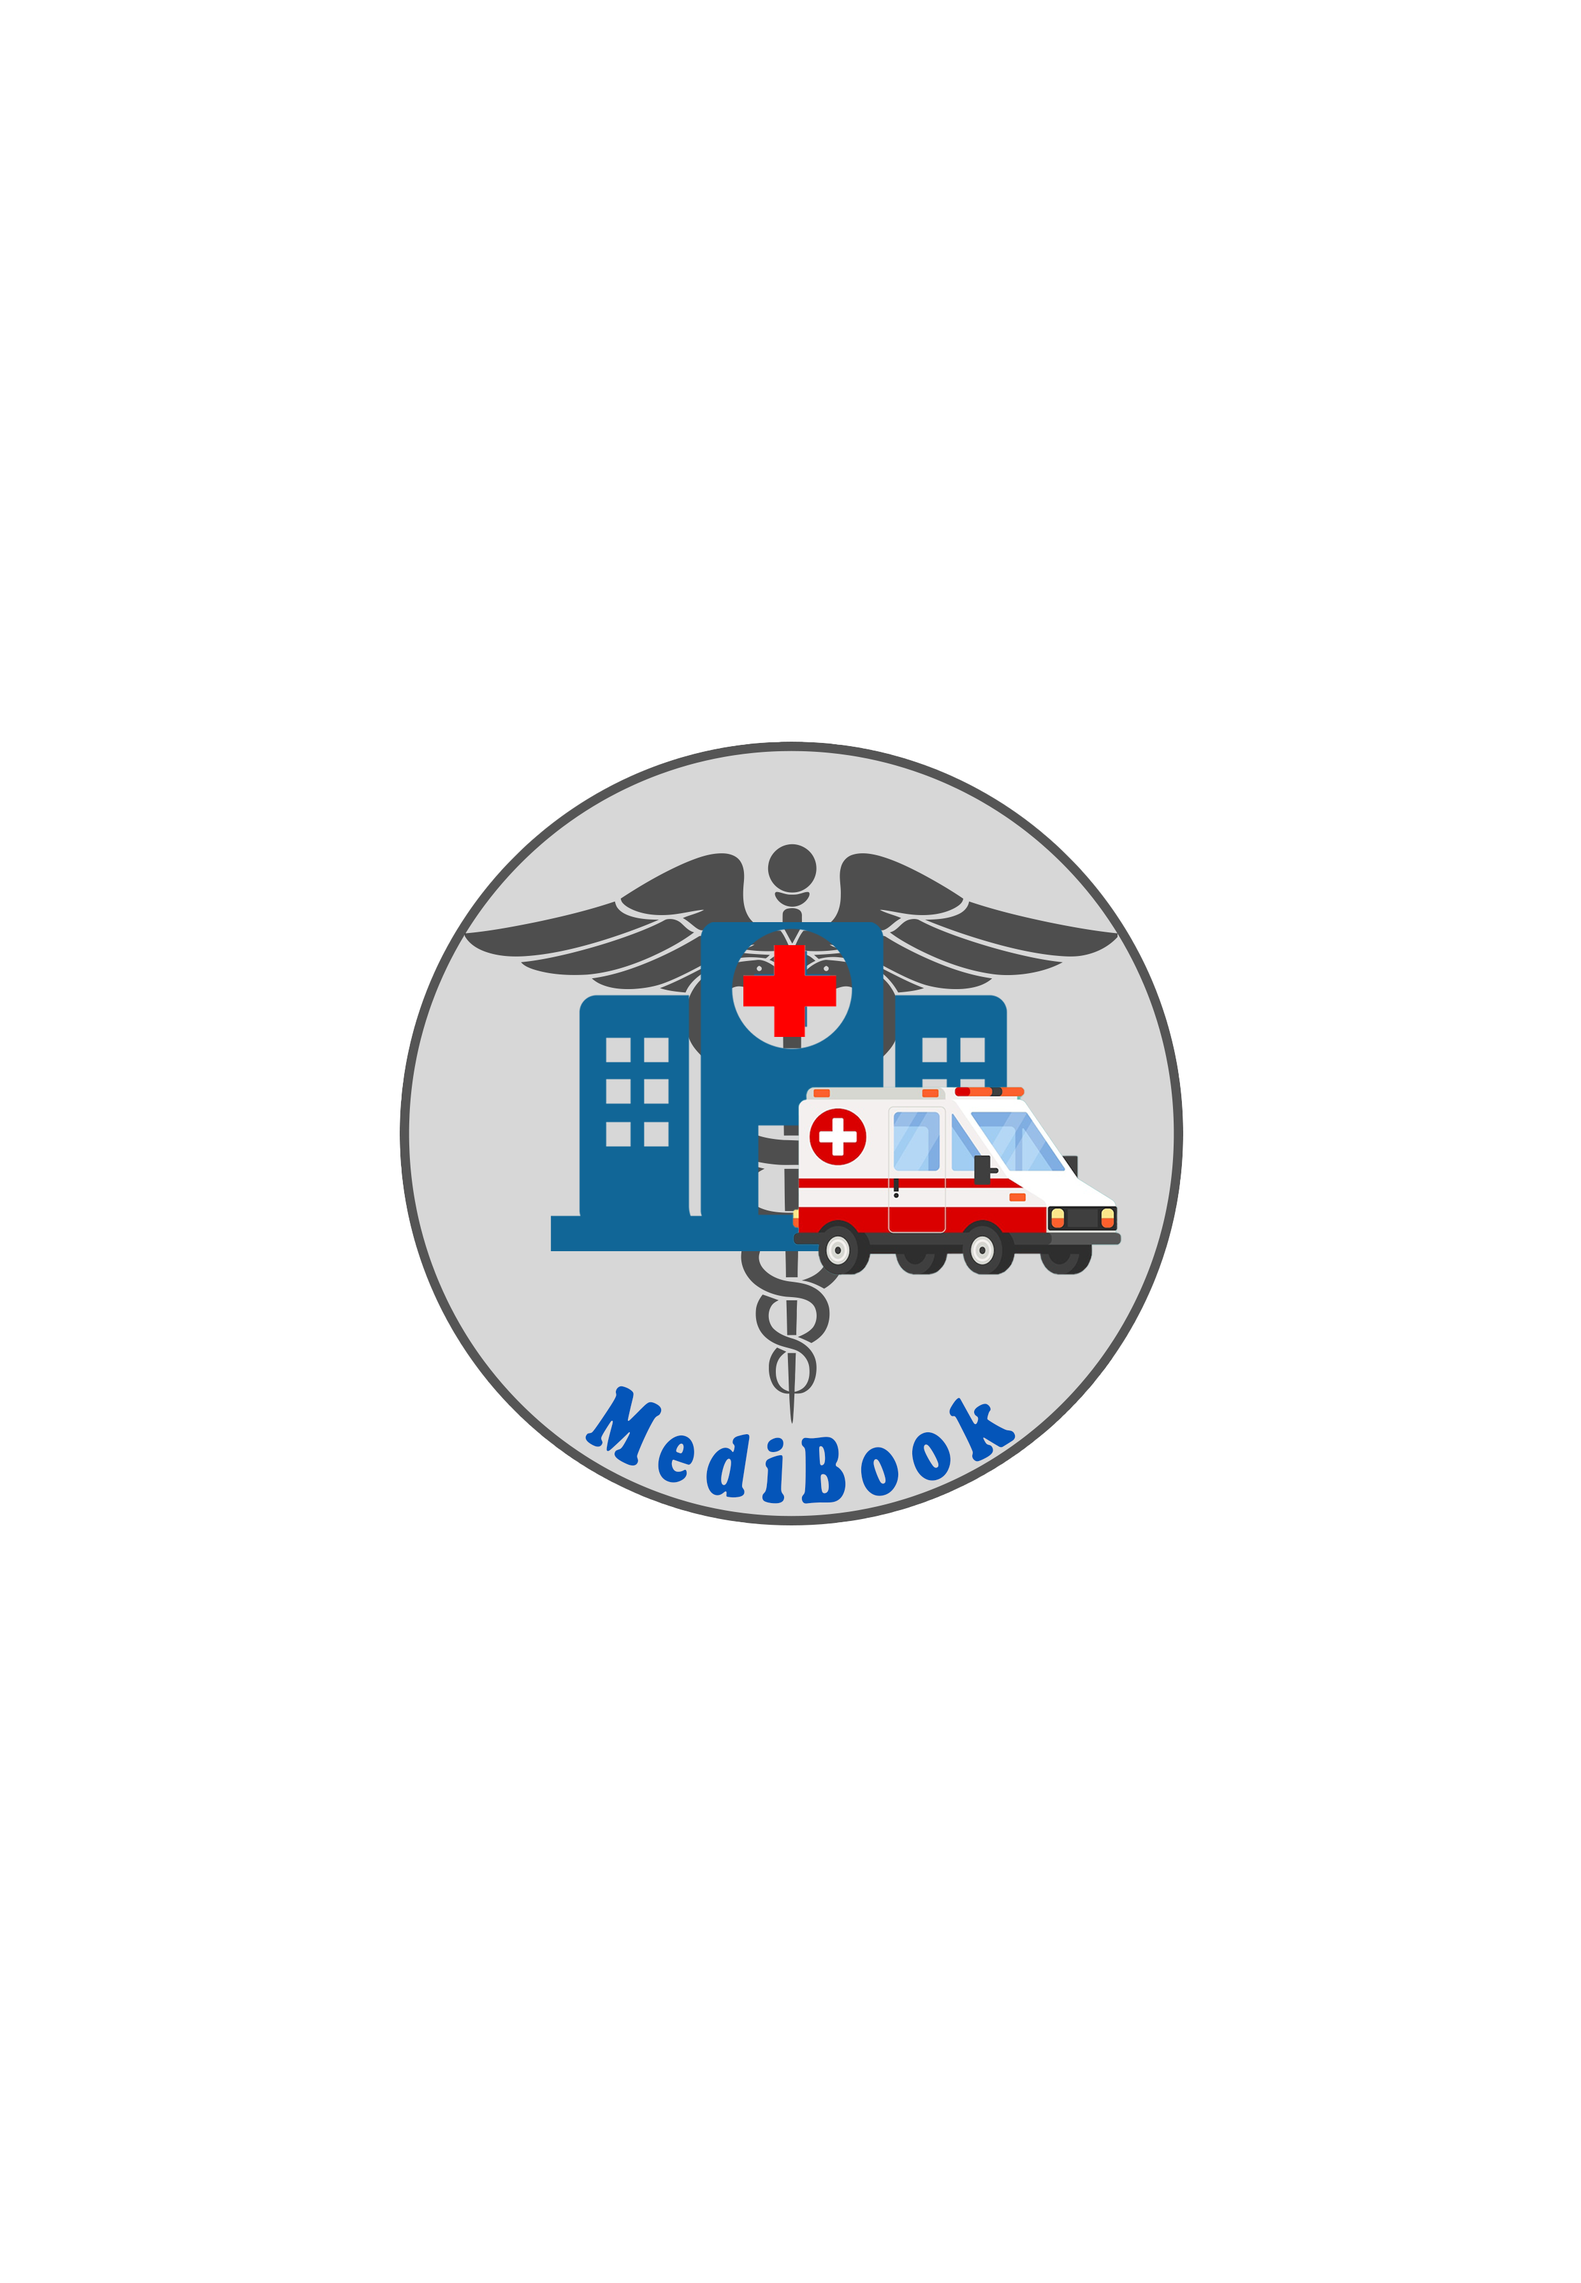
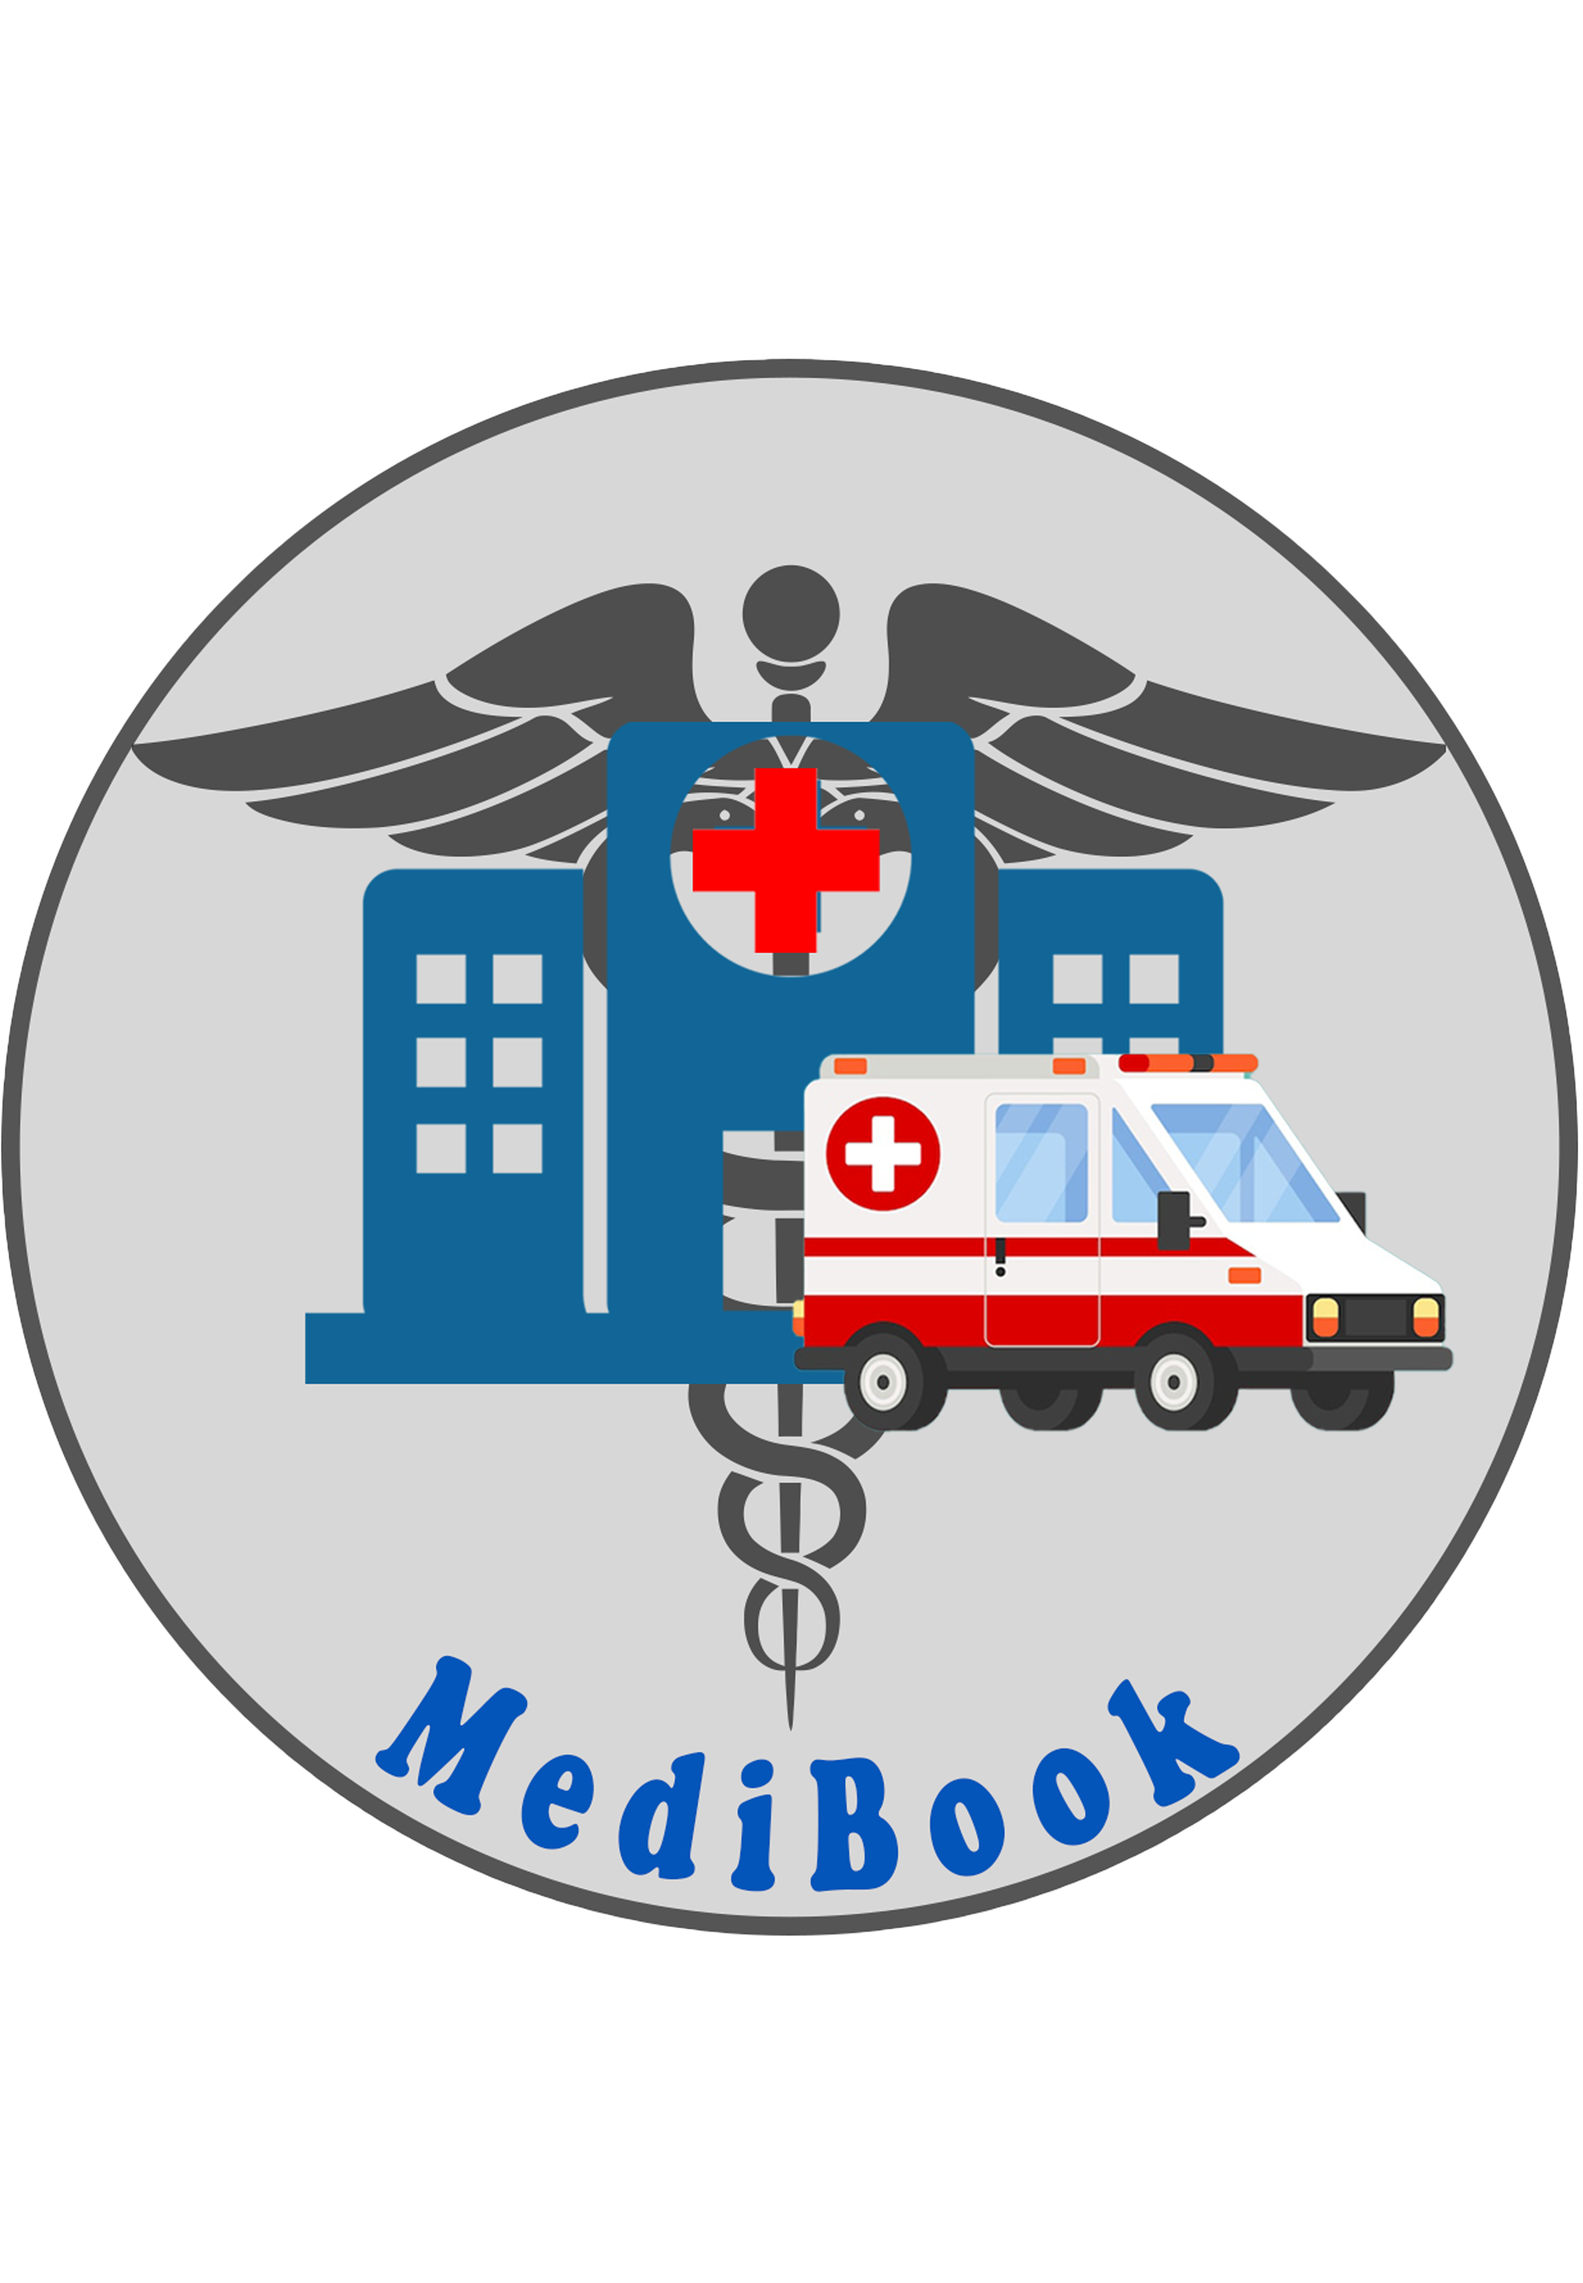
22-Sept-2022 Change 2
- Added dummy circle displaying hardcoded crowd sensor
- Added view records and generate session pages
- Changed Logo

diff --git a/frontend/src/index.js b/frontend/src/index.js
@@ -1,11 +1,13 @@
 import React from "react";
-import "./index.css";
 import { AuthProvider, RequireAuth } from "./context/AuthProvider";
 import { BrowserRouter, Route, Routes } from "react-router-dom";
 import Login from "./Login/Login";
 import Patient_Dashboard from "./Patient/Patient_Dashboard";
 import Doctor_Dashboard from "./Doctor/Doctor_Dashboard";
 import { createRoot } from "react-dom/client";
+import Generate_Session from "./Patient/Generate_Session";
+import "./index.css";
+import View_Records from "./Patient/View_Records";
 
 const rootElement = document.getElementById("root");
 const root = createRoot(rootElement);
@@ -22,6 +24,22 @@ root.render(
             element={
               <RequireAuth role="patient">
                 <Patient_Dashboard />
+              </RequireAuth>
+            }
+          />
+          <Route
+            path="generatesession"
+            element={
+              <RequireAuth role="patient">
+                <Generate_Session />
+              </RequireAuth>
+            }
+          />
+          <Route
+            path="viewrecords"
+            element={
+              <RequireAuth role="patient">
+                <View_Records />
               </RequireAuth>
             }
           />

diff --git a/frontend/public/index.html b/frontend/public/index.html
@@ -6,10 +6,10 @@
     <meta name="viewport" content="width=device-width, initial-scale=1" />
     <meta name="theme-color" content="#000000" />
     <meta
-      name="description"
-      content="Web site created using create-react-app"
+      name="MediBook App"
+      content="See the Crowd. Book your slot!"
     />
-    <link rel="apple-touch-icon" href="%PUBLIC_URL%/logo192.png" />
+    <link rel="apple-touch-icon" href="%PUBLIC_URL%/medibook.png" />
     <!--
       manifest.json provides metadata used when your web app is installed on a
       user's mobile device or desktop. See https://developers.google.com/web/fundamentals/web-app-manifest/
@@ -27,7 +27,7 @@
     <title>MediBook App</title>
   </head>
   <body>
-    <noscript>You need to enable JavaScript to run this app.</noscript>
+    <noscript>IFS4205 Group 3 Capstone Project</noscript>
     <div id="root"></div>
     <!--
       This HTML file is a template.

diff --git a/frontend/src/Patient/Patient_Dashboard.js b/frontend/src/Patient/Patient_Dashboard.js
@@ -12,14 +12,19 @@ const Patient_Dashboard = () => {
     navigate("/login");
   };
 
-  const GenerateSession = async () => {};
+  const GenerateSession = async () => {
+    navigate("/generatesession");
+  };
 
-  const ViewHealthRecords = async () => {};
+  const ViewHealthRecords = async () => {
+    navigate("/viewrecords");
+  };
 
   return (
     <div className={styles.container}>
       <h2 className={styles.header}>Welcome {name}!</h2>
       <div class={styles.buttons_container}>
+        <div class={styles.circle}>50%</div>
         <div class="generate">
           <button class={styles.button} onClick={GenerateSession}>
             Generate Session

diff --git a/frontend/src/Doctor/Doctor_Dashboard.module.css b/frontend/src/Doctor/Doctor_Dashboard.module.css
@@ -8,6 +8,7 @@
     font-family: 'Nunito', sans-serif;
     font-size: 40px;
     color:rgb(0, 0, 0);
+
 }
 
 .buttons_container{
@@ -27,3 +28,14 @@
     font-size: 32px;
 }
 
+.circle {
+    width: 200px;
+    height: 200px;
+    line-height: 200px;
+    border-radius: 50%;
+    font-size: 50px;
+    font-weight: bold;
+    color: rgb(1, 1, 1);
+    text-align: center;
+    background: rgb(14, 195, 47)
+  }

diff --git a/frontend/src/Patient/Generate_Session.js b/frontend/src/Patient/Generate_Session.js
@@ -1,0 +1,15 @@
+import { useAuth } from "../context/AuthProvider";
+import { useNavigate } from "react-router-dom";
+import styles from "./Patient_Dashboard.module.css";
+
+const Generate_Session = () => {
+  const navigate = useNavigate();
+  const name = localStorage.getItem("name");
+
+  return (
+    <div>
+      <h2>Generating Session {name}</h2>
+    </div>
+  );
+};
+export default Generate_Session;

diff --git a/frontend/src/Doctor/Doctor_Dashboard.js b/frontend/src/Doctor/Doctor_Dashboard.js
@@ -18,6 +18,7 @@ const Doctor_Dashboard = () => {
     <div className={styles.container}>
       <h2 className={styles.header}>Welcome {name}!</h2>
       <div class={styles.buttons_container}>
+        <div class={styles.circle}>50%</div>
         <div class="examine">
           <button className={styles.button} onClick={Examine}>
             Examine

diff --git a/frontend/src/Patient/View_Records.js b/frontend/src/Patient/View_Records.js
@@ -1,0 +1,14 @@
+import { useAuth } from "../context/AuthProvider";
+import { useNavigate } from "react-router-dom";
+
+const View_Records = () => {
+  const navigate = useNavigate();
+  const name = localStorage.getItem("name");
+
+  return (
+    <div>
+      <h2>Viewing {name}'s Records</h2>
+    </div>
+  );
+};
+export default View_Records;

diff --git a/frontend/src/Patient/Patient_Dashboard.module.css b/frontend/src/Patient/Patient_Dashboard.module.css
@@ -28,3 +28,14 @@
     font-size: 32px;
 }
 
+.circle {
+    width: 200px;
+    height: 200px;
+    line-height: 200px;
+    border-radius: 50%;
+    font-size: 50px;
+    font-weight: bold;
+    color: rgb(1, 1, 1);
+    text-align: center;
+    background: rgb(14, 195, 47)
+  }
